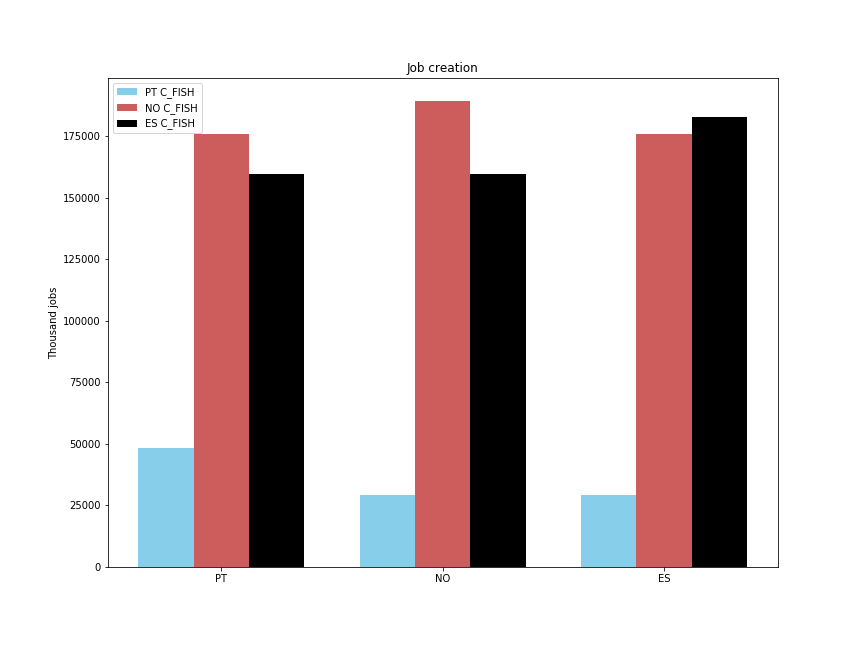
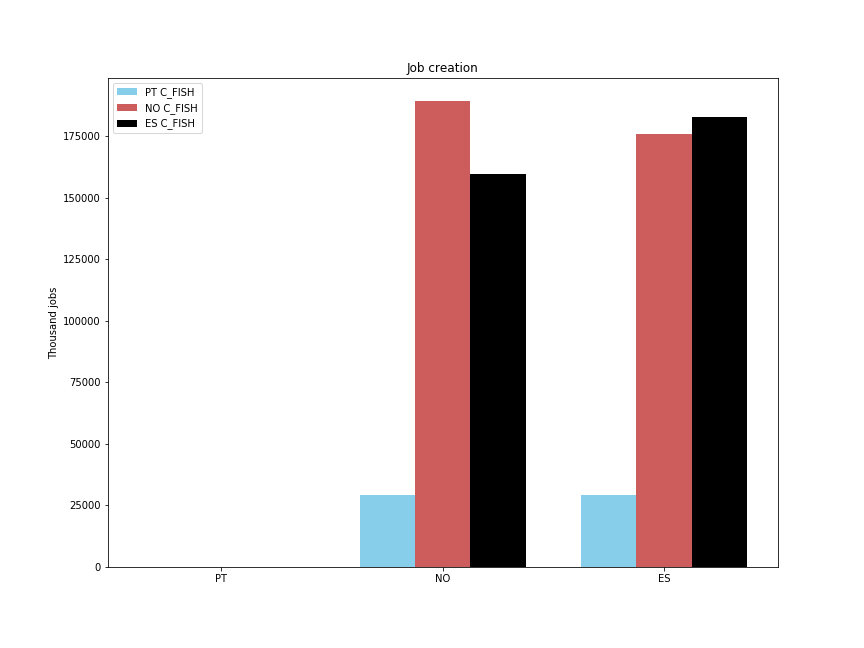
a

Changed region(s): [[0.1562, 0.1852, 0.375, 0.8951]]

diff --git a/Leonardo.py b/Leonardo.py
@@ -185,7 +185,7 @@ contribution_NO=pd.DataFrame(np.dot(np.dot(np.transpose(B_co2_air),L),np.diag(y_
 contribution_NO.columns=z.columns
 contribution_NO=np.transpose(contribution_NO)
 hotspot_NO=pd.DataFrame(np.dot(np.dot(np.diag(B_co2_air1),L),y_sum_HH_NO))
-jobs_diag_NO=pd.DataFrame(np.dot(np.dot(np.diag(va_jobs),L),y_sum_HH_NO))
+jobs_diag_NO=pd.DataFrame(np.dot(np.dot(np.diag(jobs),L),y_sum_HH_NO))
 jobs_diag_NO.index=y_sum_HH.index
 "reset values for NO y fish related"
 
@@ -208,7 +208,7 @@ contribution_ES=pd.DataFrame(np.dot(np.dot(np.transpose(B_co2_air),L),np.diag(y_
 contribution_ES.columns=z.columns
 contribution_ES=np.transpose(contribution_ES)
 hotspot_ES=pd.DataFrame(np.dot(np.dot(np.diag(B_co2_air1),L),y_sum_HH_ES))
-jobs_diag_ES=pd.DataFrame(np.dot(np.dot(np.diag(va_jobs),L),y_sum_HH_ES))
+jobs_diag_ES=pd.DataFrame(np.dot(np.dot(np.diag(jobs),L),y_sum_HH_ES))
 jobs_diag_ES.index=y_sum_HH.index
 
 contribution.to_csv('contribution.csv',sep='\t')
@@ -253,8 +253,8 @@ ax.set_title('Job creation')
 ax.set_xticks(ind)
 ax.set_xticklabels(('PT', 'NO', 'ES'))
 ax.legend()
-fig_size[0] = 12
-fig_size[1] = 9
-plt.rcParams["figure.figsize"] = fig_size
+fig_size[0] = 9
+fig_size[1] = 6
+#plt.rcParams["figure.figsize"] = fig_size
 plt.savefig('histogram')
 plt.show()
